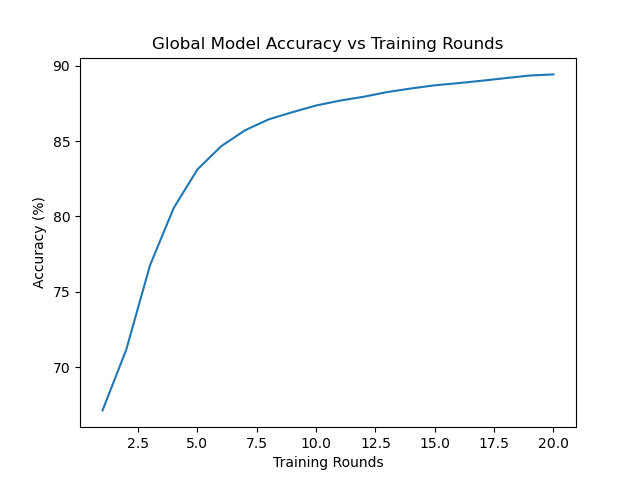
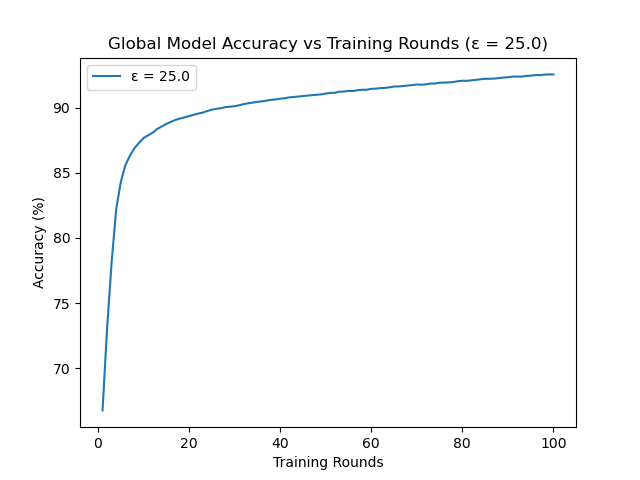
Training cifar10 dataset

diff --git a/DP_FL.py b/DP_FL.py
@@ -89,16 +89,16 @@ class Client:
             return 1.0 / self.epsilon  # Adjust this calculation as needed
         return 0.0
 
-    def log_memory_usage(self):
-        print(f"Allocated memory: {torch.cuda.memory_allocated() / 1024**2:.2f} MB")
-        print(f"Cached memory: {torch.cuda.memory_reserved() / 1024**2:.2f} MB")
+    #def log_memory_usage(self):
+        #print(f"Allocated memory: {torch.cuda.memory_allocated() / 1024**2:.2f} MB")
+        #print(f"Cached memory: {torch.cuda.memory_reserved() / 1024**2:.2f} MB")
 
     def train(self, epochs):
         self.model.train()
         for epoch in range(epochs):
             for batch_idx, (data, target) in enumerate(self.dataloader):
-                print(f"Training batch {batch_idx} in epoch {epoch}...")
-                self.log_memory_usage()  # Log memory usage
+                #print(f"Training batch {batch_idx} in epoch {epoch}...")
+                #self.log_memory_usage()  # Log memory usage
                 data, target = data.to(self.device), target.to(self.device)
                 self.optimizer.zero_grad()
                 output = self.model(data)
@@ -169,7 +169,7 @@ class FederatedLearning:
 
 # Main function
 def main():
-    dataset_choice = "mnist"
+    dataset_choice = "cifar10"
     #dataset_choice = input("Choose dataset (mnist/cifar10): ").strip().lower()
     if dataset_choice == "mnist":
         dataset = mnist_dataset
@@ -184,7 +184,7 @@ def main():
     num_clients = 2
     rounds = 100
     epochs = 1
-    epsilon = 25.0
+    epsilon = 10.0
     #num_clients = int(input("Enter number of clients: "))
     #rounds = int(input("Enter number of training rounds: "))
     #epochs = int(input("Enter number of epochs per round: "))
